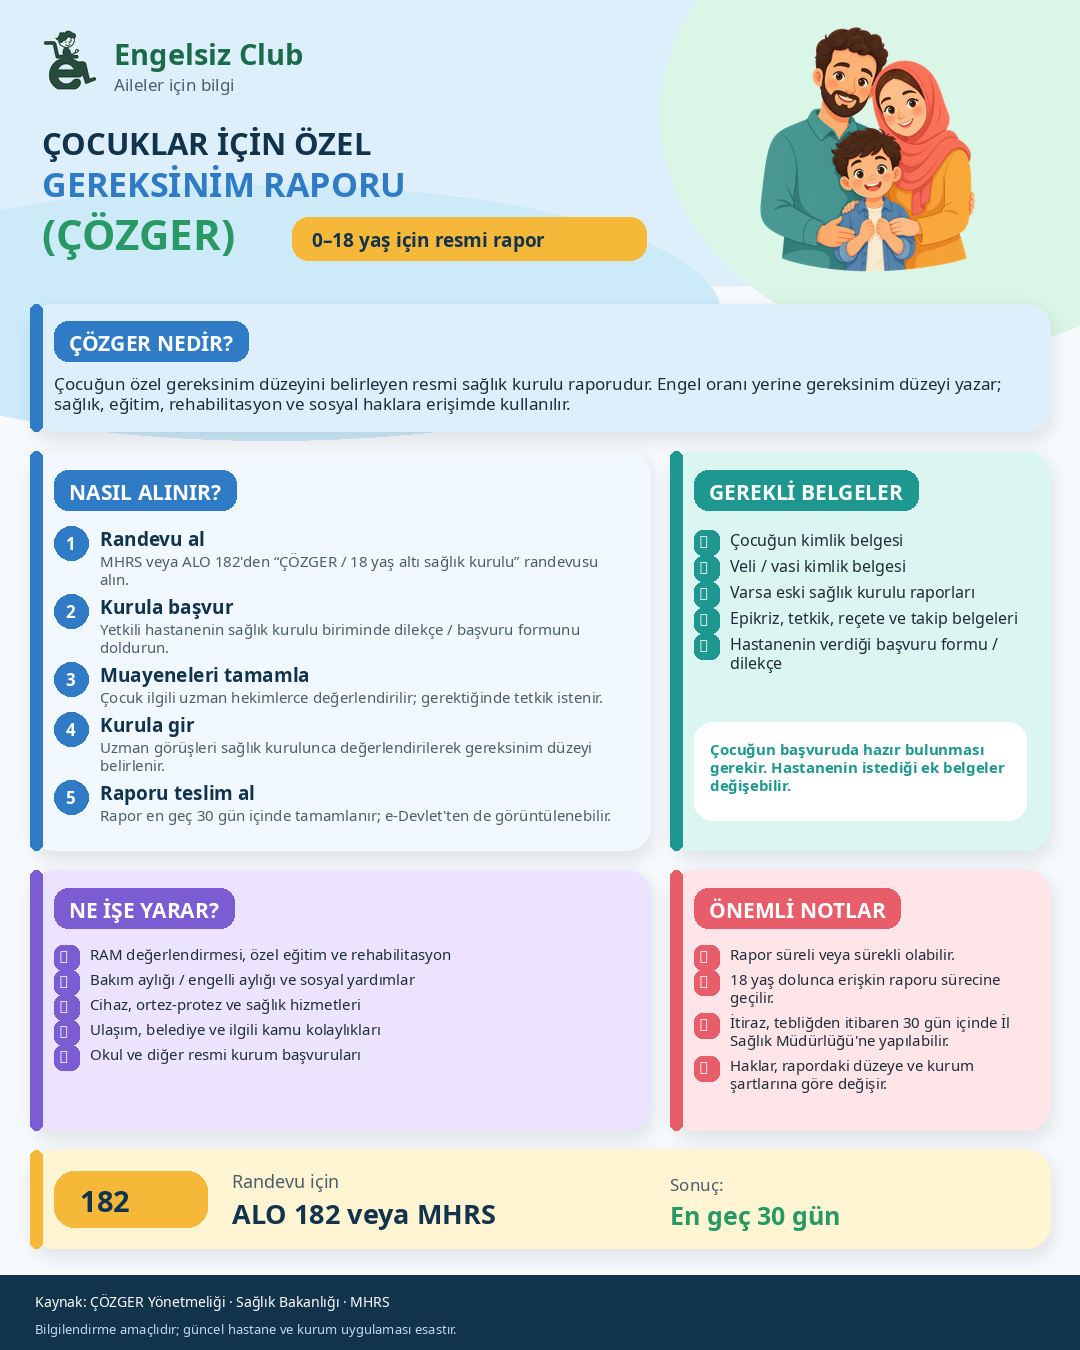
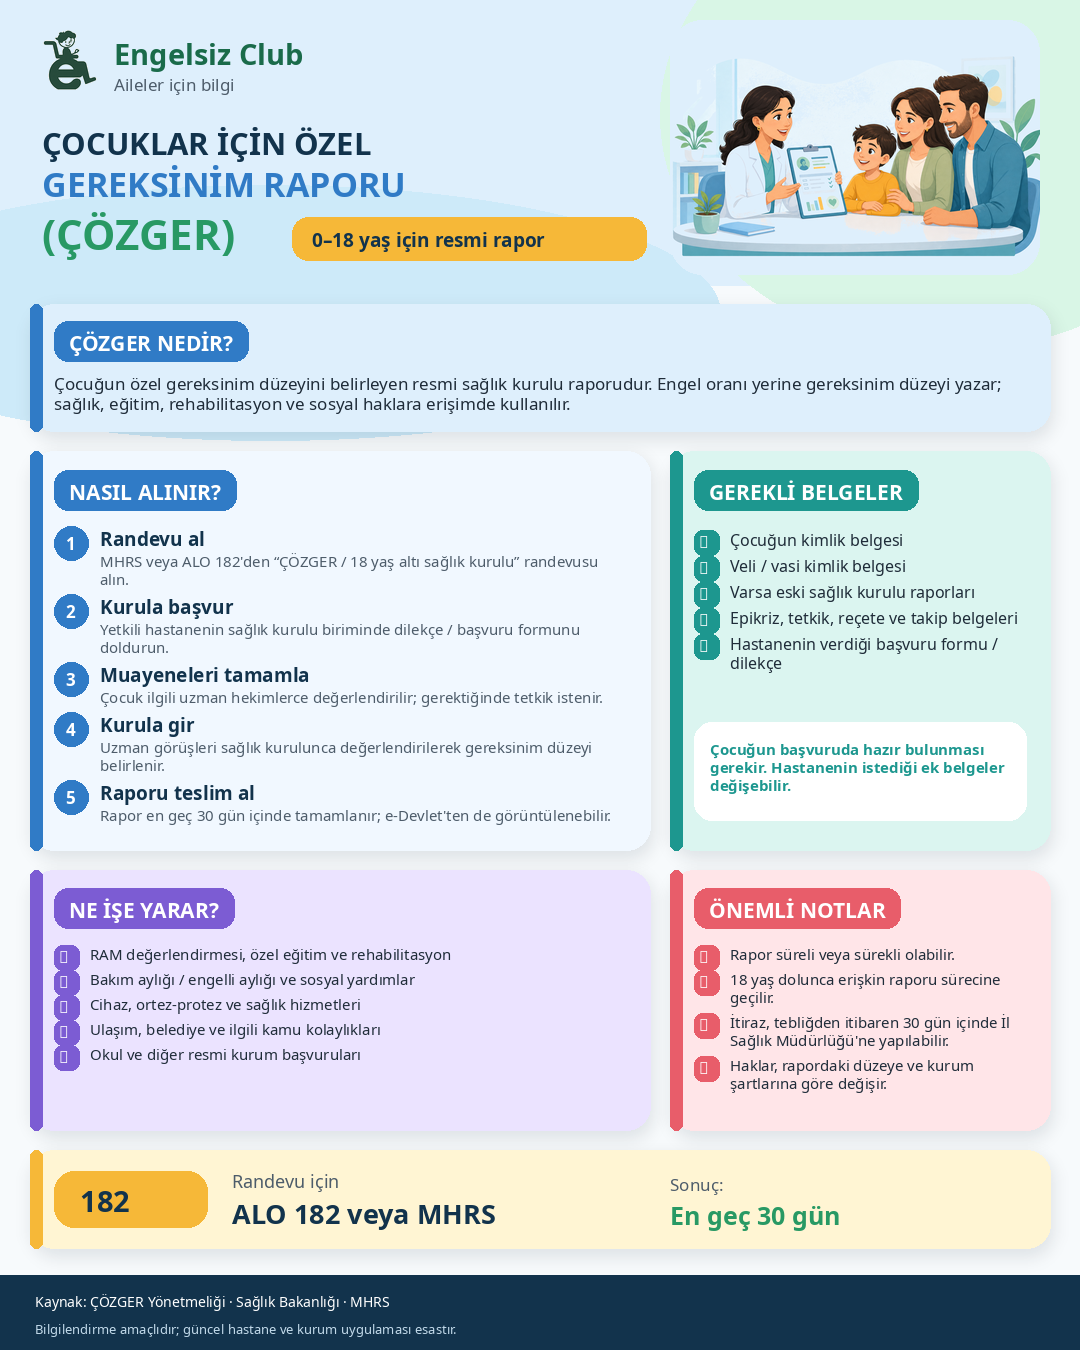
Replace generic family art with ÇÖZGER consultation illustration

Changed region(s): [[0.6111, 0.0, 0.9778, 0.2178]]

diff --git a/marketing/posters/build_cozger_instagram.py b/marketing/posters/build_cozger_instagram.py
@@ -10,7 +10,7 @@ from PIL import Image, ImageDraw, ImageFont, ImageFilter, ImageOps
 ROOT = Path(__file__).resolve().parents[2]
 OUT = Path(__file__).resolve().parent
 ICON = ROOT / "assets" / "icon" / "app_icon_clean.png"
-FAMILY = OUT / "cozger-family-illustration.png"
+FAMILY = OUT / "cozger-doctor-family-illustration.png"
 
 W, H = 1080, 1350
 
@@ -126,19 +126,29 @@ def paste_family(base: Image.Image, box: tuple[int, int, int, int]) -> None:
     if not FAMILY.exists():
         return
     x0, y0, x1, y1 = box
-    image = Image.open(FAMILY).convert("RGBA")
-    # Transparently blend the white illustration background.
-    pixels = []
-    for red, green, blue, alpha in image.getdata():
-        distance = max(0, 255 - min(red, green, blue))
-        pixels.append((red, green, blue, min(alpha, distance * 4)))
-    image.putdata(pixels)
-    image = ImageOps.contain(image, (x1 - x0, y1 - y0), Image.Resampling.LANCZOS)
-    base.paste(
+    width, height = x1 - x0, y1 - y0
+    image = Image.open(FAMILY).convert("RGB")
+    # Remove the generated checkerboard-style outer background.
+    pixels = image.load()
+    for py in range(image.height):
+        for px in range(image.width):
+            red, green, blue = pixels[px, py]
+            if red > 225 and green > 230 and blue > 235 and max(red, green, blue) - min(red, green, blue) < 18:
+                pixels[px, py] = BLUE_SOFT
+    image = ImageOps.fit(
         image,
-        (x0 + (x1 - x0 - image.width) // 2, y0 + (y1 - y0 - image.height) // 2),
-        image,
+        (width, height),
+        Image.Resampling.LANCZOS,
+        centering=(0.52, 0.52),
+    ).convert("RGBA")
+    mask = Image.new("L", (width, height), 0)
+    ImageDraw.Draw(mask).rounded_rectangle(
+        (0, 0, width - 1, height - 1),
+        radius=32,
+        fill=255,
     )
+    image.putalpha(mask)
+    base.paste(image, (x0, y0), image)
 
 
 def numbered_step(
@@ -183,7 +193,7 @@ def build() -> Image.Image:
     paste_logo(base, (38, 28), 64)
     draw.text((114, 34), "Engelsiz Club", font=font(29, True), fill=BRAND)
     draw.text((114, 72), "Aileler için bilgi", font=font(17), fill=MUTED)
-    paste_family(base, (700, 20, 1040, 275))
+    paste_family(base, (670, 20, 1040, 275))
 
     draw.text((42, 121), "ÇOCUKLAR İÇİN ÖZEL", font=font(31, True), fill=NAVY)
     draw.text((42, 160), "GEREKSİNİM RAPORU", font=font(34, True), fill=BLUE)
